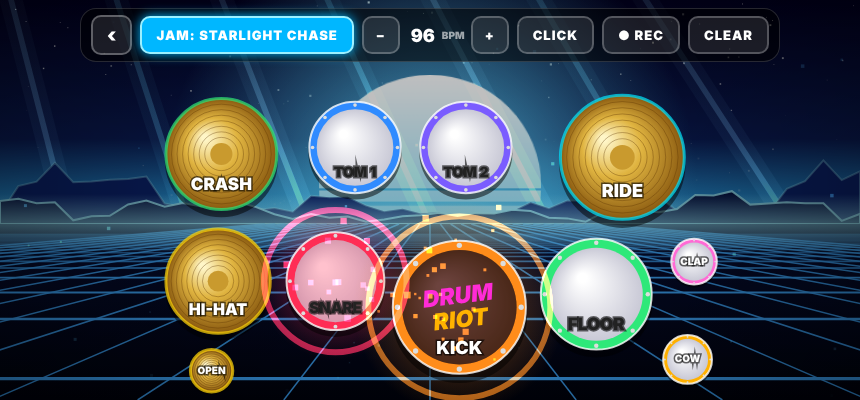
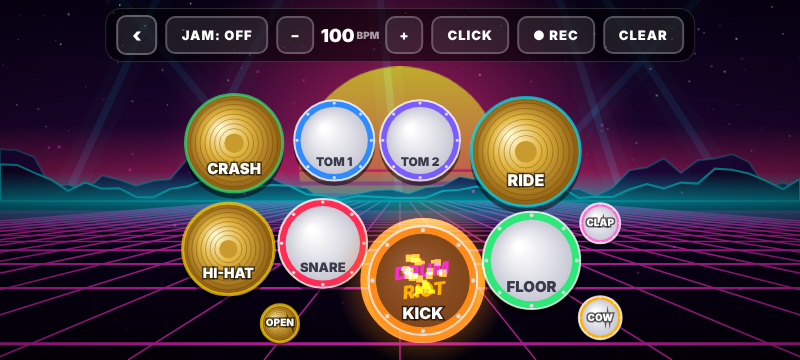
Drum Riot 1.1: jazz drum-lead song, better ride/cowbell, tighter kit
- New song 'Back Alley Bop': swing feel, walking bass, piano comping,
  sax head, drum intro, trading fours and a drum solo
- Swing timing support in the song generator
- Ride and cowbell resynthesized (additive, no aliasing buzz)
- Free play pads packed closer together (and slightly larger)

diff --git a/drum-riot/app/assets/songs.js b/drum-riot/app/assets/songs.js
@@ -27,6 +27,13 @@ const DP = {
   drop:    { K: 'x...x...x...x...', S: '....x.......x...', H: 'x...x...x...x...', O: '..x...x...x...x.' },
   hits:    { K: 'x.......x.......', C: 'x.......x.......' },
   end:     { K: 'x...............', C: 'x...............' },
+  // jazz (only even steps: offbeat 8ths get swung)
+  swing:   { R: 'x...x.x.x...x.x.', K: 'x.......x.......', S: '......x.......x.' },
+  swing2:  { R: 'x...x.x.x...x.x.', K: 'x.........x.....', S: '....x.......x...' },
+  solo1:   { K: 'x.......x.......', S: 'x.x.x.x.....x.x.', T: '........x.x.....' },
+  solo2:   { K: 'x.....x.........', T: 'x.x.x...........', M: '......x.x.......', S: '..........x.x...', F: '..............x.' },
+  solo3:   { K: 'x...x...x...x...', S: 'x.x.x.x.x.x.x.x.', C: '............x...' },
+  solo4:   { K: 'x.......x.......', T: 'x.x.x...........', M: '......x.x.......', F: '..........x.x.x.' },
 };
 
 // Fills: 8-step fills replace the 2nd half of the last bar; full:true replaces the whole bar
@@ -46,6 +53,7 @@ const SCALES = {
   minor: [0, 2, 3, 5, 7, 8, 10],
   dorian: [0, 2, 3, 5, 7, 9, 10],
   penta: [0, 3, 5, 7, 10],
+  blues: [0, 3, 5, 6, 7, 10],
 };
 
 const SONGS = [
@@ -106,6 +114,23 @@ const SONGS = [
     ],
   },
   {
+    id: 'bop', title: 'Back Alley Bop', artist: 'The Brushfire Quartet', genre: 'Jazz Swing · Drum Lead', bpm: 150, theme: 'jazz', level: 4,
+    scale: 'blues', leadRoot: 65, bassLo: 29, leadP: 'sax', swing: 0.67, jam: 1,
+    hooks: { A: '5:2 6:2 7:4 6:2 5:2 3:4 4:2 5:2 3:2 2:2 1:8 1:2 2:2 3:2 4:2 5:4 7:4 8:2 7:2 6:2 5:2 3:8' },
+    sec: [
+      { n: 'Drum Intro', b: 4, ch: ['F7'], dr: ['solo1', 'solo2', 'solo3', 'solo4'], crash: 1 },
+      { n: 'Head', b: 8, cpb: 2, ch: ['Gm7', 'C7', 'Fmaj7', 'Fmaj7', 'Am7', 'D7', 'Gm7', 'C7'], dr: 'swing', bass: 'walk', comp: 1, lead: 'A', fill: 'f8a', crash: 1 },
+      { n: 'Head', b: 8, cpb: 2, ch: ['Gm7', 'C7', 'Fmaj7', 'Fmaj7', 'Am7', 'D7', 'Gm7', 'C7'], dr: 'swing2', bass: 'walk', comp: 1, lead: 'A', fill: 'big', crash: 4 },
+      { n: 'Trade - Band', b: 4, cpb: 2, ch: ['Gm7', 'C7', 'Fmaj7', 'D7'], dr: 'swing', bass: 'walk', comp: 1, arp: 'arp8', arpP: 'sax', arpLo: 60, fill: 'f8b', crash: 1 },
+      { n: 'Drum Break!', b: 4, ch: ['F7'], dr: ['solo1', 'solo2', 'solo3', 'solo4'], crash: 1 },
+      { n: 'Trade - Band', b: 4, cpb: 2, ch: ['Gm7', 'C7', 'Fmaj7', 'D7'], dr: 'swing2', bass: 'walk', comp: 1, arp: 'arp8', arpP: 'sax', arpLo: 60, fill: 'f8b', crash: 1 },
+      { n: 'Drum Break!', b: 4, ch: ['F7'], dr: ['solo3', 'solo2', 'solo1', 'solo4'], crash: 1 },
+      { n: 'Drum Solo', b: 8, ch: ['F7', 'Bb7'], dr: ['solo1', 'solo2', 'solo3', 'solo4', 'solo2', 'solo1', 'solo3', 'solo4'], bass: 'walk', crash: 4 },
+      { n: 'Head Out', b: 8, cpb: 2, ch: ['Gm7', 'C7', 'Fmaj7', 'Fmaj7', 'Am7', 'D7', 'Gm7', 'C7'], dr: 'swing2', bass: 'walk', comp: 1, lead: 'A', fill: 'big', crash: 1 },
+      { n: 'Ending', b: 4, cpb: 2, ch: ['Gm7', 'C7', 'Fmaj7', 'Fmaj7'], dr: 'swing', bass: 'walk', comp: 1, lead: 'A', crash: 1, end: true },
+    ],
+  },
+  {
     id: 'steel', title: 'Steel Thunder', artist: 'Voltage Kings', genre: 'Hard Rock', bpm: 138, theme: 'fire', level: 4,
     scale: 'penta', leadRoot: 64, bassLo: 28, gtrLo: 40, leadP: 'gtrL', jam: 2,
     hooks: { A: '6:4 5:2 4:2 5:4 4:2 3:2 4:8 3:4 2:4 1:4 2:2 3:2 4:4 5:4 6:12 .:4' },
@@ -144,12 +169,13 @@ const THEMES = {
   edm:   { sky: ['#000814', '#001d3d', '#00c98a'], sun: ['#d9ff00', '#00ffa3'], grid: '#00ffd5', floor: ['#001428', '#000208'], mount: ['#00182e', '#00284a'], edge: '#7cff00', laser: '#00ff6a', accent: '#00ffd5' },
   fire:  { sky: ['#0a0000', '#3a0505', '#ff5a00'], sun: ['#fff27a', '#ff3b00'], grid: '#ff4d00', floor: ['#1a0300', '#050000'], mount: ['#200000', '#3a0a00'], edge: '#ffae00', laser: '#ff2200', accent: '#ff8800' },
   lava:  { sky: ['#000000', '#1a0000', '#9b0000'], sun: ['#ffcc00', '#ff0000'], grid: '#ff1a1a', floor: ['#140000', '#000000'], mount: ['#1a0000', '#2e0000'], edge: '#ff6600', laser: '#ff0000', accent: '#ff3300' },
+  jazz:  { sky: ['#05040f', '#1b1035', '#c46a1d'], sun: ['#ffe0a0', '#ff7a2a'], grid: '#e0a040', floor: ['#120a20', '#030108'], mount: ['#140c26', '#221438'], edge: '#ffb347', laser: '#ffd27a', accent: '#ffb347' },
   rage:  { sky: ['#1a0a00', '#5a2a00', '#ffd000'], sun: ['#ffffff', '#ffb000'], grid: '#ffd000', floor: ['#2a1400', '#080300'], mount: ['#2a1200', '#4a2200'], edge: '#fff27a', laser: '#ffe066', accent: '#ffd000' },
 };
 
 // ---------- music theory helpers ----------
 const NN = { C: 0, 'C#': 1, Db: 1, D: 2, 'D#': 3, Eb: 3, E: 4, F: 5, 'F#': 6, Gb: 6, G: 7, 'G#': 8, Ab: 8, A: 9, 'A#': 10, Bb: 10, B: 11 };
-const QUAL = { '': [0, 4, 7], m: [0, 3, 7], '5': [0, 7, 12], m7: [0, 3, 7, 10], '7': [0, 4, 7, 10], maj7: [0, 4, 7, 11], sus2: [0, 2, 7], sus4: [0, 5, 7] };
+const QUAL = { m9: [0, 3, 7, 10, 14], '9': [0, 4, 7, 10, 14], '': [0, 4, 7], m: [0, 3, 7], '5': [0, 7, 12], m7: [0, 3, 7, 10], '7': [0, 4, 7, 10], maj7: [0, 4, 7, 11], sus2: [0, 2, 7], sus4: [0, 5, 7] };
 function parseChord(name) {
   const m = name.match(/^([A-G][#b]?)(.*)$/);
   return { r: NN[m[1]], iv: QUAL[m[2]] || QUAL[''] };
@@ -175,14 +201,17 @@ const GAL = 'x.xxx.xxx.xxx.xx';
 const CLAV = '..x..x.x..x..x.x';
 
 // ---------- music generation for one bar ----------
+const sw = (S, s) => s + (S.swing && s % 4 === 2 ? S.swing : 0);
+const COMP = [[0, 3], [6, 2], [10, 1.5]];
 function genMusic(S, sec, b, barT, st, ev, last) {
   const cpb = sec.cpb || 1, seg = 16 / cpb;
-  const add = (s, m, len, p) => ev.push({ t: barT + s * st, k: 'n', m, d: len * st, p });
+  const add = (s, m, len, p) => ev.push({ t: barT + sw(S, s) * st, k: 'n', m, d: len * st, p });
   for (let h = 0; h < cpb; h++) {
     const C = parseChord(sec.ch[(b * cpb + h) % sec.ch.length]);
     const s0 = h * seg, s1 = s0 + seg;
     const br = inR(C.r, S.bassLo || 33);
     const tones = C.iv.map(iv => C.r + iv);
+    const NC = parseChord(sec.ch[(b * cpb + h + 1) % sec.ch.length]);
     if (last && sec.end) {
       if (h === 0) {
         add(0, br, 24, 'sub');
@@ -198,6 +227,13 @@ function genMusic(S, sec, b, barT, st, ev, last) {
       case 'sub': add(s0, br, seg - 0.5, 'sub'); break;
       case 'pump': for (let s = s0; s < s1; s += 4) { add(s + 2, br, 1.8, 'sub'); add(s + 3, br + 12, 0.8, 'bass'); } break;
       case 'funk': for (const [s, iv, l] of FUNK_BASS) if (s >= s0 && s < s1) add(s, br + iv, l, 'bassF'); break;
+      case 'walk': {
+        const n = seg / 4, nr = inR(NC.r, S.bassLo || 33);
+        const appr = nr + ((b + h) % 2 ? 1 : -1);
+        const line = n >= 4 ? [br, br + C.iv[1], br + C.iv[2], appr] : [br, appr];
+        line.forEach((m, k) => add(s0 + k * 4, m, 3.6, 'upright'));
+        break;
+      }
       case 'gallop': for (let s = s0; s < s1; s++) if (GAL[s] === 'x') add(s, br, 0.9, 'bass'); break;
     }
     if (sec.gtr) {
@@ -223,12 +259,16 @@ function genMusic(S, sec, b, barT, st, ev, last) {
       for (let s = s0; s < s1; s += 4) vo.forEach(m => add(s + 2, m, 1.4, 'ssaw'));
       add(s0, inR(C.r, 48), seg, 'pad');
     }
+    if (sec.comp) {
+      const vo = [...C.iv.slice(1, 4), 14].map(iv => inR((C.r + iv) % 12, 57));
+      for (const [s, l] of COMP) if (s >= s0 && s < s1) vo.forEach(m => add(s, m, l, 'epiano'));
+    }
     if (sec.clav) {
       const vo = tones.slice(0, 4).map(pc => inR(pc % 12, 60));
       for (let s = s0; s < s1; s++) if (CLAV[s] === 'x') vo.forEach(m => add(s, m, 0.8, 'clav'));
     }
     if (sec.arp) {
-      const base = [...new Set(tones.map(pc => inR(pc % 12, sec.arpP ? 52 : 64)))].sort((a, c) => a - c);
+      const base = [...new Set(tones.map(pc => inR(pc % 12, sec.arpLo || (sec.arpP ? 52 : 64))))].sort((a, c) => a - c);
       const up = base.concat(base.map(m => m + 12));
       const seq = up.concat(up.slice(1, -1).reverse());
       const stp = sec.arp === 'arp8' ? 2 : 1;
@@ -240,7 +280,7 @@ function genMusic(S, sec, b, barT, st, ev, last) {
     const off = (b * 16) % H.len;
     for (const [pos, d, len] of H.notes) {
       if (pos >= off && pos < off + 16) {
-        ev.push({ t: barT + (pos - off) * st, k: 'n', m: degToMidi(S, d) + (sec.leadOct || 0), d: len * st * 0.95, p: S.leadP || 'lead' });
+        ev.push({ t: barT + sw(S, pos - off) * st, k: 'n', m: degToMidi(S, d) + (sec.leadOct || 0), d: len * st * 0.95, p: S.leadP || 'lead' });
       }
     }
   }
@@ -251,7 +291,7 @@ function genMusic(S, sec, b, barT, st, ev, last) {
 // ---------- drum chart for one bar ----------
 const LANEMAP = { K: [4, 'kick'], S: [0, 'snare'], H: [1, 'hhc'], O: [1, 'hho'], R: [1, 'ride'], T: [2, 'tom1'], M: [2, 'tom2'], F: [3, 'tom3'], C: [3, 'crash'] };
 const PRI = { C: 5, S: 4, K: 4, F: 3, T: 3, M: 3, O: 2, H: 1, R: 1 };
-function genDrums(sec, b, barT, st, notes, last, gBase) {
+function genDrums(S, sec, b, barT, st, notes, last, gBase) {
   let name = Array.isArray(sec.dr) ? sec.dr[b % sec.dr.length] : sec.dr;
   if (!name) return;
   if (last && sec.end) name = 'end';
@@ -286,7 +326,7 @@ function genDrums(sec, b, barT, st, notes, last, gBase) {
     }
     for (const l in byLane) {
       const o = byLane[l];
-      notes.push({ t: barT + s * st, lane: o.lane, snd: o.snd, k: o.k, gs: gBase + s });
+      notes.push({ t: barT + sw(S, s) * st, lane: o.lane, snd: o.snd, k: o.k, gs: gBase + s });
     }
   }
 }
@@ -327,7 +367,7 @@ function buildSong(S, diff) {
       const barT = bar * 16 * st;
       const last = b === sec.b - 1;
       genMusic(S, sec, b, barT, st, ev, last);
-      genDrums(sec, b, barT, st, notes, last, bar * 16);
+      genDrums(S, sec, b, barT, st, notes, last, bar * 16);
       bar++;
     }
   }
@@ -352,6 +392,6 @@ function buildDrumLoop(S, secIdx) {
   const sec = S.sec[secIdx];
   const st = 60 / S.bpm / 4;
   const notes = [];
-  for (let b = 0; b < sec.b; b++) genDrums(sec, b, b * 16 * st, st, notes, b === sec.b - 1, b * 16);
+  for (let b = 0; b < sec.b; b++) genDrums(S, sec, b, b * 16 * st, st, notes, b === sec.b - 1, b * 16);
   return notes.map(n => ({ t: n.t, k: 'd', n: n.snd, v: 0.7 }));
 }

diff --git a/drum-riot/app/assets/audio.js b/drum-riot/app/assets/audio.js
@@ -104,15 +104,23 @@ const A = (() => {
       for (let i = 0; i < d.length; i++) { const t = i / sr; d[i] *= (Math.exp(-t * 2.0) * 0.8 + Math.exp(-t * 18) * 0.6) * Math.min(1, t * 600); }
       norm(d, 0.62);
     });
-    drums.ride = mkBuf(1.6, (d, sr) => {
-      metal(d, sr, 66, 5000);
-      let p = 0;
+    // Ride: inharmonic sine partials (no aliasing/buzz) + bell + stick ping
+    drums.ride = mkBuf(2.0, (d, sr) => {
+      const P = [];
+      for (let k = 0; k < 26; k++) P.push({ w: 2 * Math.PI * 3000 * Math.pow(2.6, Math.random()) / sr, a: 0.3 + Math.random() * 0.7, dk: 1.4 + Math.random() * 2.4, ph: Math.random() * 6.28 });
+      const B = [[512, 0.5, 2.6], [796, 0.32, 3.2], [1232, 0.42, 2.8], [1709, 0.22, 4], [2391, 0.3, 3.5]];
+      for (const b of B) P.push({ w: 2 * Math.PI * b[0] / sr, a: b[1] * 3.2, dk: b[2], ph: 0 });
+      const dec = P.map(q => Math.exp(-q.dk / sr));
+      const env = P.map(q => q.a);
       for (let i = 0; i < d.length; i++) {
+        let v = 0;
+        for (let k = 0; k < P.length; k++) { v += env[k] * Math.sin(P[k].ph + P[k].w * i); env[k] *= dec[k]; }
         const t = i / sr;
-        p += 2 * Math.PI * 2650 / sr;
-        d[i] = d[i] * 0.55 * Math.exp(-t * 3) + Math.sin(p) * 0.25 * Math.exp(-t * 6);
+        d[i] = v / 14 + rnd() * 0.35 * Math.exp(-t * 45) + rnd() * 0.04 * Math.exp(-t * 2.5);
       }
-      norm(d, 0.42);
+      biq(d, sr, 'hp', 350, 0.7);
+      for (let i = 0; i < 40; i++) d[i] *= i / 40;
+      norm(d, 0.5);
     });
     const tom = (base) => mkBuf(0.7, (d, sr) => {
       let ph = 0;
@@ -124,13 +132,19 @@ const A = (() => {
       norm(d, 0.85);
     });
     drums.tom1 = tom(230); drums.tom2 = tom(170); drums.tom3 = tom(110);
-    drums.cowbell = mkBuf(0.4, (d, sr) => {
+    // Cowbell: classic 2-tone (band-limited squares at 540 + 800 Hz)
+    drums.cowbell = mkBuf(0.6, (d, sr) => {
       for (let i = 0; i < d.length; i++) {
         const t = i / sr;
-        d[i] = ((t * 560) % 1 < 0.5 ? 1 : -1) + ((t * 845) % 1 < 0.5 ? 1 : -1);
+        let v = 0;
+        for (const f of [540, 800]) for (let h = 1; h * f < 9000; h += 2) v += Math.sin(2 * Math.PI * f * h * t) / h;
+        d[i] = v;
       }
-      biq(d, sr, 'bp', 900, 2.5);
-      for (let i = 0; i < d.length; i++) d[i] *= Math.exp(-(i / sr) * 13);
+      biq(d, sr, 'bp', 1000, 0.9);
+      for (let i = 0; i < d.length; i++) {
+        const t = i / sr;
+        d[i] *= (0.62 * Math.exp(-t * 32) + 0.38 * Math.exp(-t * 6.5)) * Math.min(1, t * 1500);
+      }
       norm(d, 0.5);
     });
     drums.stick = mkBuf(0.08, (d, sr) => {
@@ -368,6 +382,9 @@ const PRESETS = {
   bell:  { w: 'triangle', det: [0, 1200], cut: 5000, q: 0.5, a: 0.003, d: 0.5, s: 0.15, r: 0.4, g: 0.09, dly: 0.35, rev: 0.4 },
   clav:  { w: 'square', cut: 1100, ce: 3200, fd: 0.08, q: 8, a: 0.002, d: 0.1, s: 0.1, r: 0.04, g: 0.065 },
   brass: { w: 'sawtooth', det: [-6, 6], cut: 900, ce: 2600, fd: 0.12, q: 2, a: 0.03, d: 0.2, s: 0.75, r: 0.1, g: 0.08, rev: 0.25 },
+  upright: { w: 'triangle', det: [0, 3], cut: 700, ce: 900, fd: 0.09, q: 1.5, a: 0.004, d: 0.3, s: 0.35, r: 0.08, g: 0.55 },
+  epiano: { w: 'sine', det: [0, 1200], cut: 3500, q: 0.5, a: 0.004, d: 0.7, s: 0.3, r: 0.25, g: 0.07, rev: 0.35 },
+  sax:   { w: 'sawtooth', det: [-5, 5], cut: 1100, ce: 1700, fd: 0.14, q: 2.5, a: 0.035, d: 0.3, s: 0.8, r: 0.12, g: 0.085, vib: 4, rev: 0.35 },
   gtr:   { w: 'sawtooth', det: [-9, 9], cut: 3200, q: 0.7, a: 0.004, d: 0.4, s: 0.75, r: 0.09, g: 0.2, bus: 'gtr' },
   gtrM:  { w: 'sawtooth', det: [-9, 9], cut: 800, ce: 1100, fd: 0.07, q: 1.5, a: 0.002, d: 0.08, s: 0.3, r: 0.04, g: 0.22, bus: 'gtr' },
   gtrL:  { w: 'sawtooth', det: [-4, 4], cut: 2600, ce: 1200, fd: 0.2, q: 2, a: 0.01, d: 0.3, s: 0.8, r: 0.15, g: 0.13, bus: 'gtr', vib: 6, dly: 0.25 },

diff --git a/drum-riot/app/assets/game.js b/drum-riot/app/assets/game.js
@@ -416,7 +416,7 @@
       G.secIdx = si; G.secName = secs[si].n.toUpperCase(); G.secT = 2;
     }
     G.secT = Math.max(0, G.secT - dt);
-    const hype = /CHORUS|DROP|HOOK|SOLO/.test(G.secName);
+    const hype = /CHORUS|DROP|HOOK|SOLO|DRUM|HEAD/.test(G.secName);
     BG.lasers += ((G.rageOn ? 1 : hype ? 0.6 : 0.05) - BG.lasers) * dt * 3;
     if (G.rageOn) {
       G.rage -= dt * 0.06;
@@ -679,23 +679,24 @@
   //  FREE PLAY
   // ============================================================
   const PADS = [
-    { id: 'crash', x: 0.25, y: 0.27, r: 0.17, snd: 'crash', cym: 1, col: '#2ee879', label: 'CRASH', key: 'q' },
-    { id: 'tom1', x: 0.66, y: 0.25, r: 0.14, snd: 'tom1', col: '#2f8bff', label: 'TOM 1', key: 'w' },
-    { id: 'tom2', x: 1.0, y: 0.25, r: 0.14, snd: 'tom2', col: '#7a5cff', label: 'TOM 2', key: 'e' },
-    { id: 'ride', x: 1.48, y: 0.28, r: 0.19, snd: 'ride', cym: 1, col: '#00e5ff', label: 'RIDE', key: 'r' },
-    { id: 'hhc', x: 0.24, y: 0.66, r: 0.16, snd: 'hhc', cym: 1, col: '#ffd60a', label: 'HI-HAT', key: 'a' },
-    { id: 'hho', x: 0.22, y: 0.935, r: 0.065, snd: 'hho', cym: 1, col: '#ffd60a', label: 'OPEN', key: 'z' },
-    { id: 'snare', x: 0.6, y: 0.66, r: 0.155, snd: 'snare', col: '#ff2d55', label: 'SNARE', key: 's' },
-    { id: 'kick', x: 0.98, y: 0.74, r: 0.21, snd: 'kick', col: '#ff8c1a', label: 'KICK', kick: 1, key: ' ' },
-    { id: 'floor', x: 1.4, y: 0.7, r: 0.17, snd: 'tom3', col: '#2ee879', label: 'FLOOR', key: 'd' },
-    { id: 'clap', x: 1.7, y: 0.6, r: 0.07, snd: 'clap', col: '#ff6ad5', label: 'CLAP', key: 'f' },
-    { id: 'cow', x: 1.68, y: 0.9, r: 0.075, snd: 'cowbell', col: '#ffb000', label: 'COW', key: 'c' },
+    { id: 'crash', x: 0.22, y: 0.27, r: 0.17, snd: 'crash', cym: 1, col: '#2ee879', label: 'CRASH', key: 'q' },
+    { id: 'tom1', x: 0.57, y: 0.26, r: 0.14, snd: 'tom1', col: '#2f8bff', label: 'TOM 1', key: 'w' },
+    { id: 'tom2', x: 0.87, y: 0.26, r: 0.14, snd: 'tom2', col: '#7a5cff', label: 'TOM 2', key: 'e' },
+    { id: 'ride', x: 1.24, y: 0.30, r: 0.19, snd: 'ride', cym: 1, col: '#00e5ff', label: 'RIDE', key: 'r' },
+    { id: 'hhc', x: 0.20, y: 0.64, r: 0.16, snd: 'hhc', cym: 1, col: '#ffd60a', label: 'HI-HAT', key: 'a' },
+    { id: 'hho', x: 0.38, y: 0.90, r: 0.065, snd: 'hho', cym: 1, col: '#ffd60a', label: 'OPEN', key: 'z' },
+    { id: 'snare', x: 0.53, y: 0.62, r: 0.155, snd: 'snare', col: '#ff2d55', label: 'SNARE', key: 's' },
+    { id: 'kick', x: 0.88, y: 0.75, r: 0.2, snd: 'kick', col: '#ff8c1a', label: 'KICK', kick: 1, key: ' ' },
+    { id: 'floor', x: 1.26, y: 0.68, r: 0.17, snd: 'tom3', col: '#2ee879', label: 'FLOOR', key: 'd' },
+    { id: 'clap', x: 1.50, y: 0.55, r: 0.07, snd: 'clap', col: '#ff6ad5', label: 'CLAP', key: 'f' },
+    { id: 'cow', x: 1.50, y: 0.88, r: 0.075, snd: 'cowbell', col: '#ffb000', label: 'COW', key: 'c' },
   ];
+  const KIT_W = 1.6;
   const FL = { sc: 1, ox: 0, oy: 0 };
   function layoutFree() {
     const top = 66, aw = W - 20, ah = H - top - 8;
-    FL.sc = Math.min(aw / 1.78, ah);
-    FL.ox = (W - 1.78 * FL.sc) / 2;
+    FL.sc = Math.min(aw / KIT_W, ah);
+    FL.ox = (W - KIT_W * FL.sc) / 2;
     FL.oy = top + (ah - FL.sc) / 2;
   }
   const F = { flash: {}, jam: -1, jamSeq: null, jamStart: 0, jamLen: 0, bpm: 100, metro: false, metroNext: 0, metroBeat: 0, rec: false, loop: [], loopStart: 0, loopLen: 0, schedTo: 0, lastBeat: -1 };

diff --git a/drum-riot/README.md b/drum-riot/README.md
@@ -16,8 +16,10 @@ A rhythm drum game for Android. Notes fly down a neon highway and you smash the 
 - Three difficulties (Easy, Medium, Hard) are generated from the same drum part.
 - Results screen with a grade (S to D), 1–5 stars, accuracy, max combo and saved high scores.
 
-### 🎶 6 original songs
+### 🎶 7 original songs
 All music is synthesized live in code, so there are no audio files and no copyrighted songs.
+
+**Back Alley Bop** is a swing tune where you, the drummer, lead. It opens with a drum intro, then the band plays the melody with walking bass, piano and sax. After that you trade 4-bar breaks with the band and take a full drum solo.
 
 | # | Song | Artist | Style | BPM |
 |---|------|--------|-------|-----|
@@ -25,8 +27,9 @@ All music is synthesized live in code, so there are no audio files and no copyri
 | 2 | Neon Highway | VHS Dreamers | Synthwave | 112 |
 | 3 | Midnight Funk Machine | Groove Syndicate | Funk | 104 |
 | 4 | Drop Zone | Kilowatt | EDM | 128 |
-| 5 | Steel Thunder | Voltage Kings | Hard Rock | 138 |
-| 6 | Inferno Engine | Molten Skull | Metal | 150 |
+| 5 | Back Alley Bop | The Brushfire Quartet | Jazz Swing, drum lead | 150 |
+| 6 | Steel Thunder | Voltage Kings | Hard Rock | 138 |
+| 7 | Inferno Engine | Molten Skull | Metal | 150 |
 
 The backing band (bass, synths, distorted guitars, leads) plays the song. **The drums only sound when you hit them**, so if you miss, the drum part goes quiet.
 
